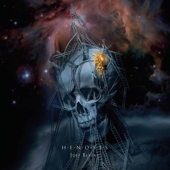
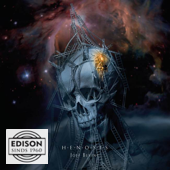
tweaks

Changed region(s): [[0.0294, 0.7353, 0.2941, 0.9706]]

diff --git a/css/style.css b/css/style.css
@@ -431,7 +431,7 @@ blockquote{
 }
 
 .project-box {
-  padding: 10px;
+  padding: 6px;
   background-color: rgba(228, 227, 227, 0.25);
   width: 100%;
   max-width: 230px;

diff --git a/_projects/project1903-Henosis.md b/_projects/project1903-Henosis.md
@@ -3,9 +3,9 @@ layout: project
 show_on_frontpage: true
 permalink: "/discography/joep-beving-henosis/"
 
-title:  "Joep Beving - Henosis"
+title:  "Joep Beving - Henosis 🏆"
 project_name: "Henosis"
-role: "producer, sound designer, recording, mixer"
+role: "producer, sound&nbsp;designer, recording, mixer"
 
 artist_name: "Joep Beving"
 artist_website: "http://joepbeving.com"
@@ -44,6 +44,10 @@ Mastered by [Zino Mikorey](https://www.zinomikorey.com).
 
 Thanks to Joep for taking me on these musical adventures and [Christian Badzura](https://www.linkedin.com/in/christian-badzura-64b49716/?originalSubdomain=de), A&R of [Deutsche Grammophon](https://www.deutschegrammophon.com/), for his advice and feedback.
 
+In November 2019 we were honoured to receive the [Dutch Edison Award](https://www.edisons.nl/klassiek/nieuws/winnaars-edison-klassiek-2019-bekend/)🏆.
+[Joep comments](https://www.facebook.com/joepbevingmusic/posts/2600956476639248):
+>"... you have been the ultimate wingman in this adventure, we made this record together. Thank you for all the passion, skill and damn hard work."
+
 A film was created by [Rahi Rezvani](http://www.rahirezvani.com) in 3 Movements:
 
 <iframe width="100%" height="225" src="https://www.youtube.com/embed/gg0RyjaKXo0?rel=0" frameborder="0" allow="accelerometer; autoplay; encrypted-media; gyroscope; picture-in-picture" allowfullscreen></iframe>
@@ -62,9 +66,5 @@ Listen to the album in your favorite player [here](https://dg.lnk.to/beving-heno
 
 [Pop News](http://www.popnews.com/popnews/joep-beving-henosis)
 >"... We then find ourselves in a game of communicating vessels: here we draw the fragrances of the classical repertoire, there elements of electronic rhythm. One feeds on the other."
-
-In November 2019 we were honoured to receive the [Dutch Edison Award](https://www.edisons.nl/klassiek/nieuws/winnaars-edison-klassiek-2019-bekend/)🏆.
-[Joep comments](https://www.facebook.com/joepbevingmusic/posts/2600956476639248):
->"... you have been the ultimate wingman in this adventure, we made this record together. Thank you for all the passion, skill and damn hard work."
 
 ---

diff --git a/_projects/project1610-Prehension.md b/_projects/project1610-Prehension.md
@@ -3,7 +3,7 @@ layout: project
 show_on_frontpage: true
 permalink: "/discography/joep-beving-prehension/"
 
-title:  "Joep Beving - Prehension"
+title:  "Joep Beving - Prehension 🏆"
 project_name: "Prehension"
 role: "producer, recording, mixer"
 
@@ -15,7 +15,11 @@ artist_soundcloud: "https://soundcloud.com/joep-beving"
 artist_facebook: "https://www.facebook.com/joepbevingmusic/"
 
 project_thumb_small: project1610-thumb-small.png
+project_thumb_small_hover: project1610-thumb-small-hover.png
+
 project_thumb_large: project1610-thumb-large.png
+project_thumb_large_hover: project1610-thumb-large-hover.png
+
 project_background_image: project1610-bg.png
 project_thumbnails:
   - img: "project1610-image01-thumb.png"
@@ -35,6 +39,7 @@ Mastering by [Darcy Proper](http://www.wisseloord.nl/mastering/) to make sure it
 
 This album was signed with the legendary [Deutsche Grammophon](http://www.deutschegrammophon.com/en/cat/4797151?) label.<br />
 
+In April 2019 the album received the [Golden Record Award](https://www.luister.nl/pianist-joep-beving-ontvangt-gouden-plaat/)🏆 in the Concertgebouw in Amsterdam.
 
 I am so proud of what we have accomplished. We never dreamed this big; we just wanted to make beautiful piano music. This album has touched millions of people and has changed our lives forever, in a good way. Thank you!
 
@@ -56,6 +61,5 @@ Right after this was released we started working on the closing chapter of the t
 [Our Culture](https://ourculturemag.com/2017/04/09/204-2/) wrote:
 >"A stunning album." 
 
-In April 2019 the album received the [Golden Record Award](https://www.luister.nl/pianist-joep-beving-ontvangt-gouden-plaat/)🏆 in the Concertgebouw in Amsterdam.
 
 ---

diff --git a/_projects/project1901-NiklasBach.md b/_projects/project1901-NiklasBach.md
@@ -5,7 +5,7 @@ permalink: "/discography/niklas-paschburg-blooming/"
 
 title:  "Niklas Paschburg - Blooming (in C-minor)"
 project_name: "Blooming"
-role: "producer, sound designer, mixer"
+role: "producer, recording, sound&nbsp;designer, mixer"
 
 artist_name: "Niklas Paschburg"
 artist_website: "http://niklaspaschburg.com"

diff --git a/_projects/project1708-Niklas.md b/_projects/project1708-Niklas.md
@@ -5,7 +5,7 @@ permalink: "/discography/niklas-paschburg-oceanic/"
 
 title:  "Niklas Paschburg - Oceanic"
 project_name: "Oceanic"
-role: "co-producer, sound designer, mixer"
+role: "co-producer, sound&nbsp;designer, mixer"
 
 artist_name: "Niklas Paschburg"
 artist_website: "http://niklaspaschburg.com"

diff --git a/_projects/project0808-VoyageDirect.md b/_projects/project0808-VoyageDirect.md
@@ -5,7 +5,7 @@ permalink: "/discography/tom-trago-voyage-direct/"
 
 title:  "Tom Trago - Voyage Direct"
 project_name: "Voyage Direct"
-role: "co-producer, sound designer, mixer"
+role: "co-producer, sound&nbsp;designer, mixer"
 
 artist_name: "Tom Trago"
 artist_website: "http://tomtrago.com"

diff --git a/_projects/project1804-Prelude.md b/_projects/project1804-Prelude.md
@@ -5,7 +5,7 @@ permalink: "/discography/joep-beving-prelude/"
 
 title:  "Joep Beving - Prelude"
 project_name: "Prelude"
-role: "co-producer, mixer, sound designer"
+role: "co-producer, mixer, sound&nbsp;designer"
 
 artist_name: "Joep Beving"
 artist_website: "http://joepbeving.com"
